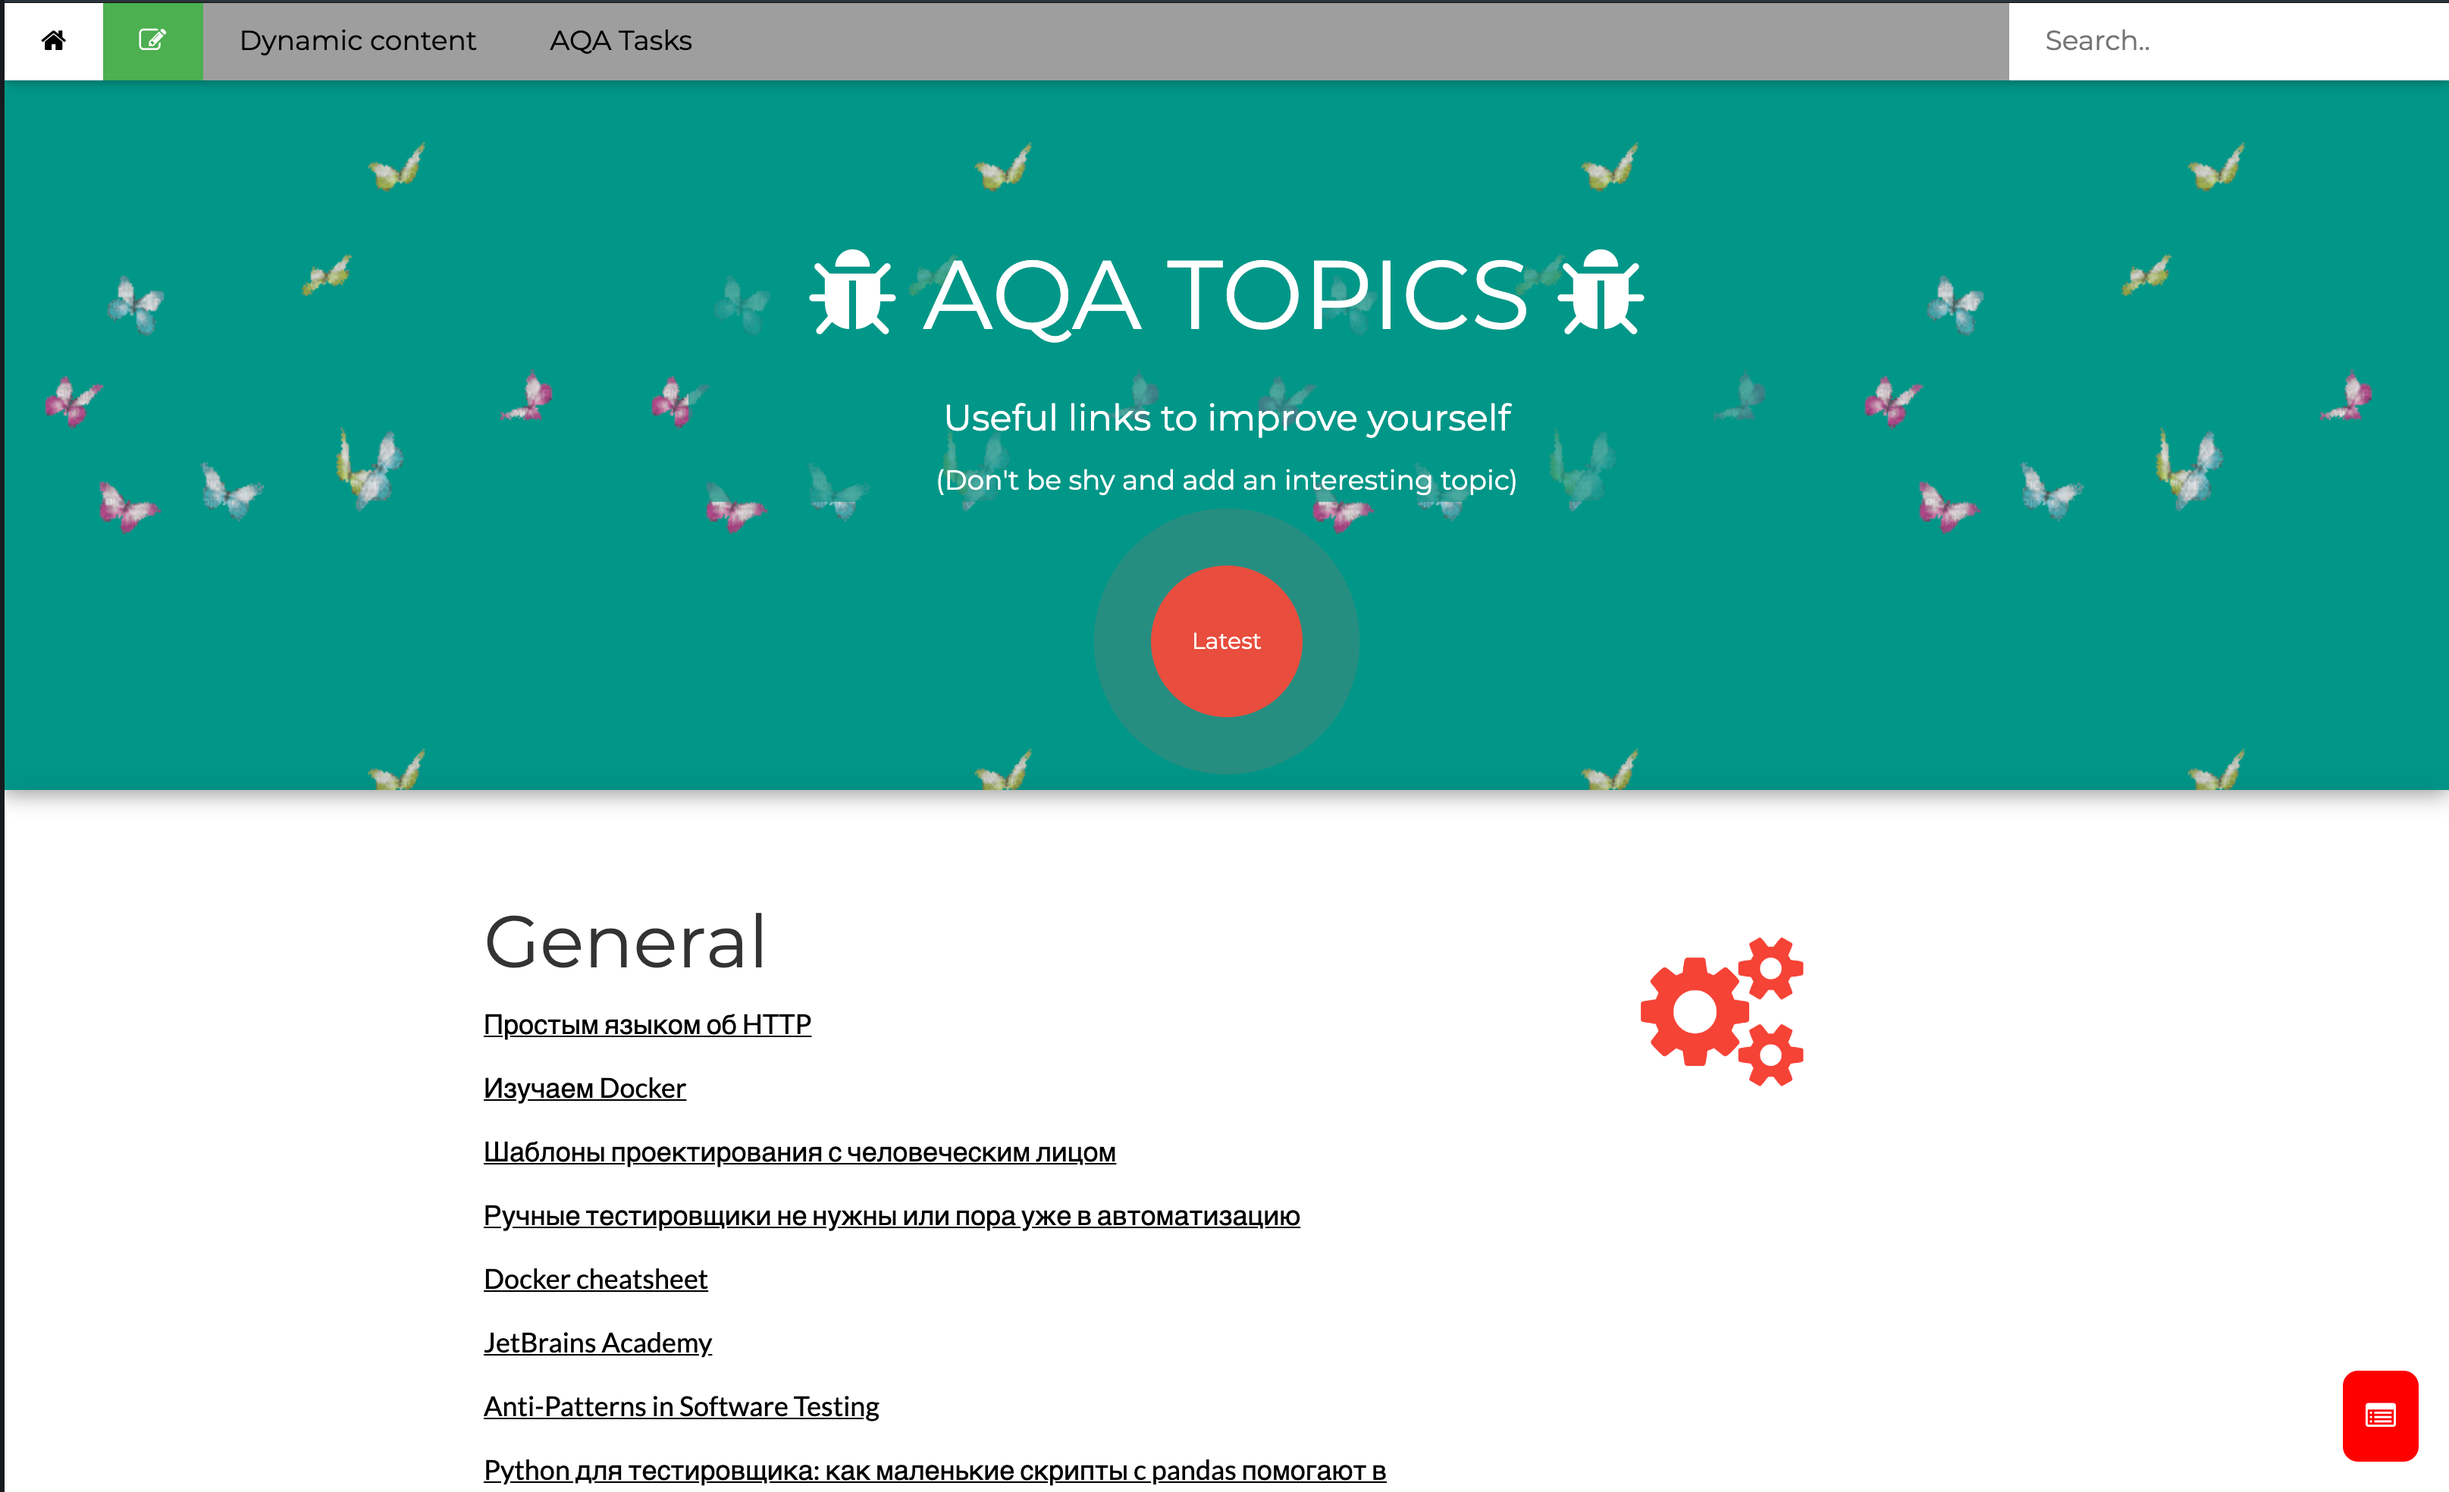
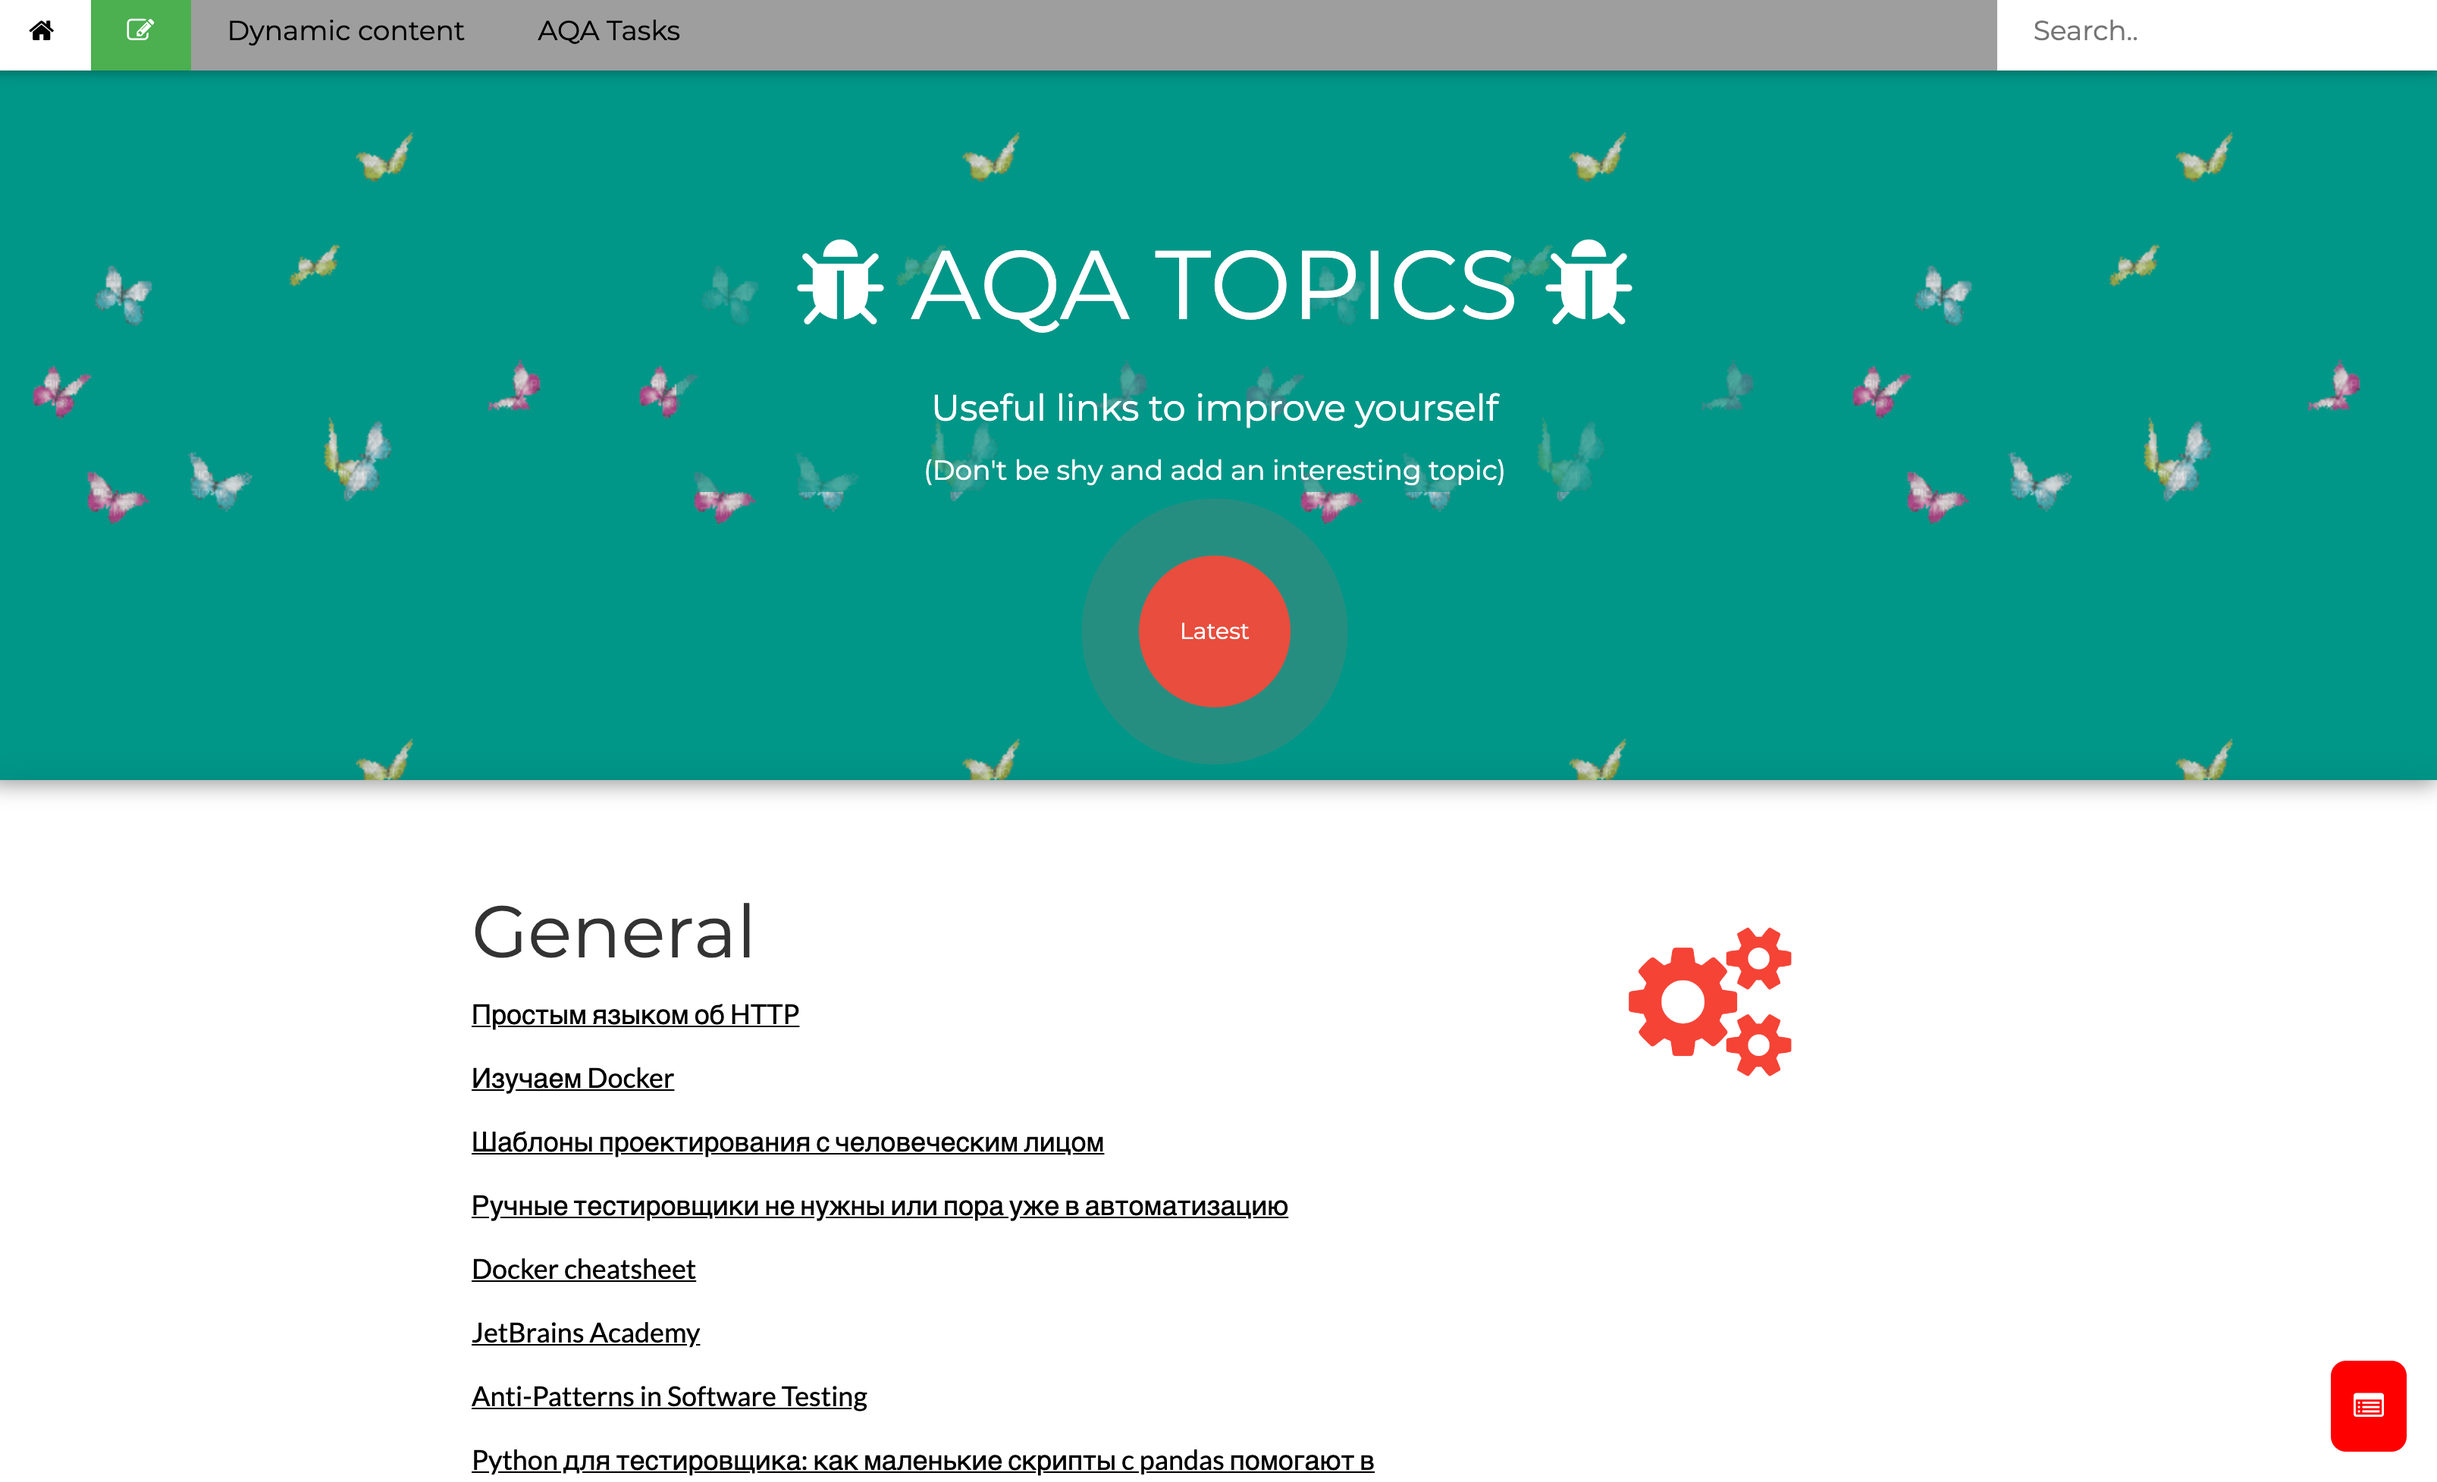
Update images and font sizes

diff --git a/templates/contact.html b/templates/contact.html
@@ -63,7 +63,11 @@
                     <div class="col-md-10 col-md-offset-1">
                         <form action="" class="reveal-content">
                             <div class="row">
-                                <div class="col-md-5 address-container">
+                                <div class="col-md-7">
+                                    <img src="./static/assets/images/logo_transparent.png" class="img-responsive"
+                                         alt="">
+                                </div>
+                                <div class="col-md-5 address-container text-center">
                                     <ul class="list-unstyled">
                                         <li>
                                           <span class="fa-icon">
@@ -103,9 +107,10 @@
     <div class="container">
         <div class="row">
             <div class="col-xs-12">
-                <p>© UNTITLED | Website created with <a href="http://www.mashup-template.com/"
-                                                        title="Create website with free html template">Mashup
-                    Template</a>/<a href="https://www.unsplash.com/" title="Beautiful Free Images">Unsplash</a></p>
+                <!--                <p>© UNTITLED | Website created with <a href="http://www.mashup-template.com/"-->
+                <!--                                                        title="Create website with free html template">Mashup-->
+                <!--                    Template</a>/<a href="https://www.unsplash.com/" title="Beautiful Free Images">Unsplash</a></p>-->
+                <p><a href="https://github.com/Goraved" title="GitHub profile">Goraved 2020</a></p>
             </div>
         </div>
     </div>
@@ -115,6 +120,8 @@
   document.addEventListener("DOMContentLoaded", function (event) {
      navActivePage();
   });
+
+
 
 
 

diff --git a/templates/work.html b/templates/work.html
@@ -85,7 +85,8 @@
                 <div class="row">
                     {% for image in images %}
                     <div class="col-xs-12 col-md-6">
-                        <img src="../static/assets/images/{{image['name']}}" class="img-responsive img_max_height" alt="">
+                        <img src="../static/assets/images/{{image['name']}}" class="img-responsive img_max_height"
+                             alt="">
                         <p>{{image['desc']}}</p>
                     </div>
                     {% endfor %}
@@ -105,9 +106,10 @@
     <div class="container">
         <div class="row">
             <div class="col-xs-12">
-                <p>© UNTITLED | Website created with <a href="http://www.mashup-template.com/"
-                                                        title="Create website with free html template">Mashup
-                    Template</a>/<a href="https://www.unsplash.com/" title="Beautiful Free Images">Unsplash</a></p>
+                <!--                <p>© UNTITLED | Website created with <a href="http://www.mashup-template.com/"-->
+                <!--                                                        title="Create website with free html template">Mashup-->
+                <!--                    Template</a>/<a href="https://www.unsplash.com/" title="Beautiful Free Images">Unsplash</a></p>-->
+                <p><a href="https://github.com/Goraved" title="GitHub profile">Goraved 2020</a></p>
             </div>
         </div>
     </div>
@@ -117,6 +119,7 @@
   document.addEventListener("DOMContentLoaded", function (event) {
      navActivePage();
   });
+
 
 
 

diff --git a/templates/projects.html b/templates/projects.html
@@ -200,9 +200,10 @@
     <div class="container">
         <div class="row">
             <div class="col-xs-12">
-                <p>© UNTITLED | Website created with <a href="http://www.mashup-template.com/"
-                                                        title="Create website with free html template">Mashup
-                    Template</a>/<a href="https://www.unsplash.com/" title="Beautiful Free Images">Unsplash</a></p>
+                <!--                <p>© UNTITLED | Website created with <a href="http://www.mashup-template.com/"-->
+                <!--                                                        title="Create website with free html template">Mashup-->
+                <!--                    Template</a>/<a href="https://www.unsplash.com/" title="Beautiful Free Images">Unsplash</a></p>-->
+                <p><a href="https://github.com/Goraved" title="GitHub profile">Goraved 2020</a></p>
             </div>
         </div>
     </div>
@@ -212,6 +213,7 @@
   document.addEventListener("DOMContentLoaded", function (event) {
      navActivePage();
   });
+
 
 </script>
 

diff --git a/templates/about.html b/templates/about.html
@@ -134,9 +134,10 @@
     <div class="container">
         <div class="row">
             <div class="col-xs-12">
-                <p>© UNTITLED | Website created with <a href="http://www.mashup-template.com/"
-                                                        title="Create website with free html template">Mashup
-                    Template</a>/<a href="https://www.unsplash.com/" title="Beautiful Free Images">Unsplash</a></p>
+                <!--                <p>© UNTITLED | Website created with <a href="http://www.mashup-template.com/"-->
+                <!--                                                        title="Create website with free html template">Mashup-->
+                <!--                    Template</a>/<a href="https://www.unsplash.com/" title="Beautiful Free Images">Unsplash</a></p>-->
+                <p><a href="https://github.com/Goraved" title="GitHub profile">Goraved 2020</a></p>
             </div>
         </div>
     </div>
@@ -146,6 +147,7 @@
   document.addEventListener("DOMContentLoaded", function (event) {
      navActivePage();
   });
+
 
 
 

diff --git a/templates/components.html b/templates/components.html
@@ -231,7 +231,8 @@
   <div class="container">
     <div class="row">
       <div class="col-xs-12">
-        <p>© UNTITLED | Website created with <a href="http://www.mashup-template.com/" title="Create website with free html template">Mashup Template</a>/<a href="https://www.unsplash.com/" title="Beautiful Free Images">Unsplash</a></p>
+<!--        <p>© UNTITLED | Website created with <a href="http://www.mashup-template.com/" title="Create website with free html template">Mashup Template</a>/<a href="https://www.unsplash.com/" title="Beautiful Free Images">Unsplash</a></p>-->
+        <p><a href="https://github.com/Goraved" title="GitHub profile">Goraved 2020</a></p>
       </div>
     </div>
   </div>

diff --git a/static/main.3f6952e4.css b/static/main.3f6952e4.css
@@ -509,7 +509,7 @@ h6 small {
 
 .h1,
 h1 {
-	font-size: 70px
+	font-size: 60px
 }
 
 .h2,
